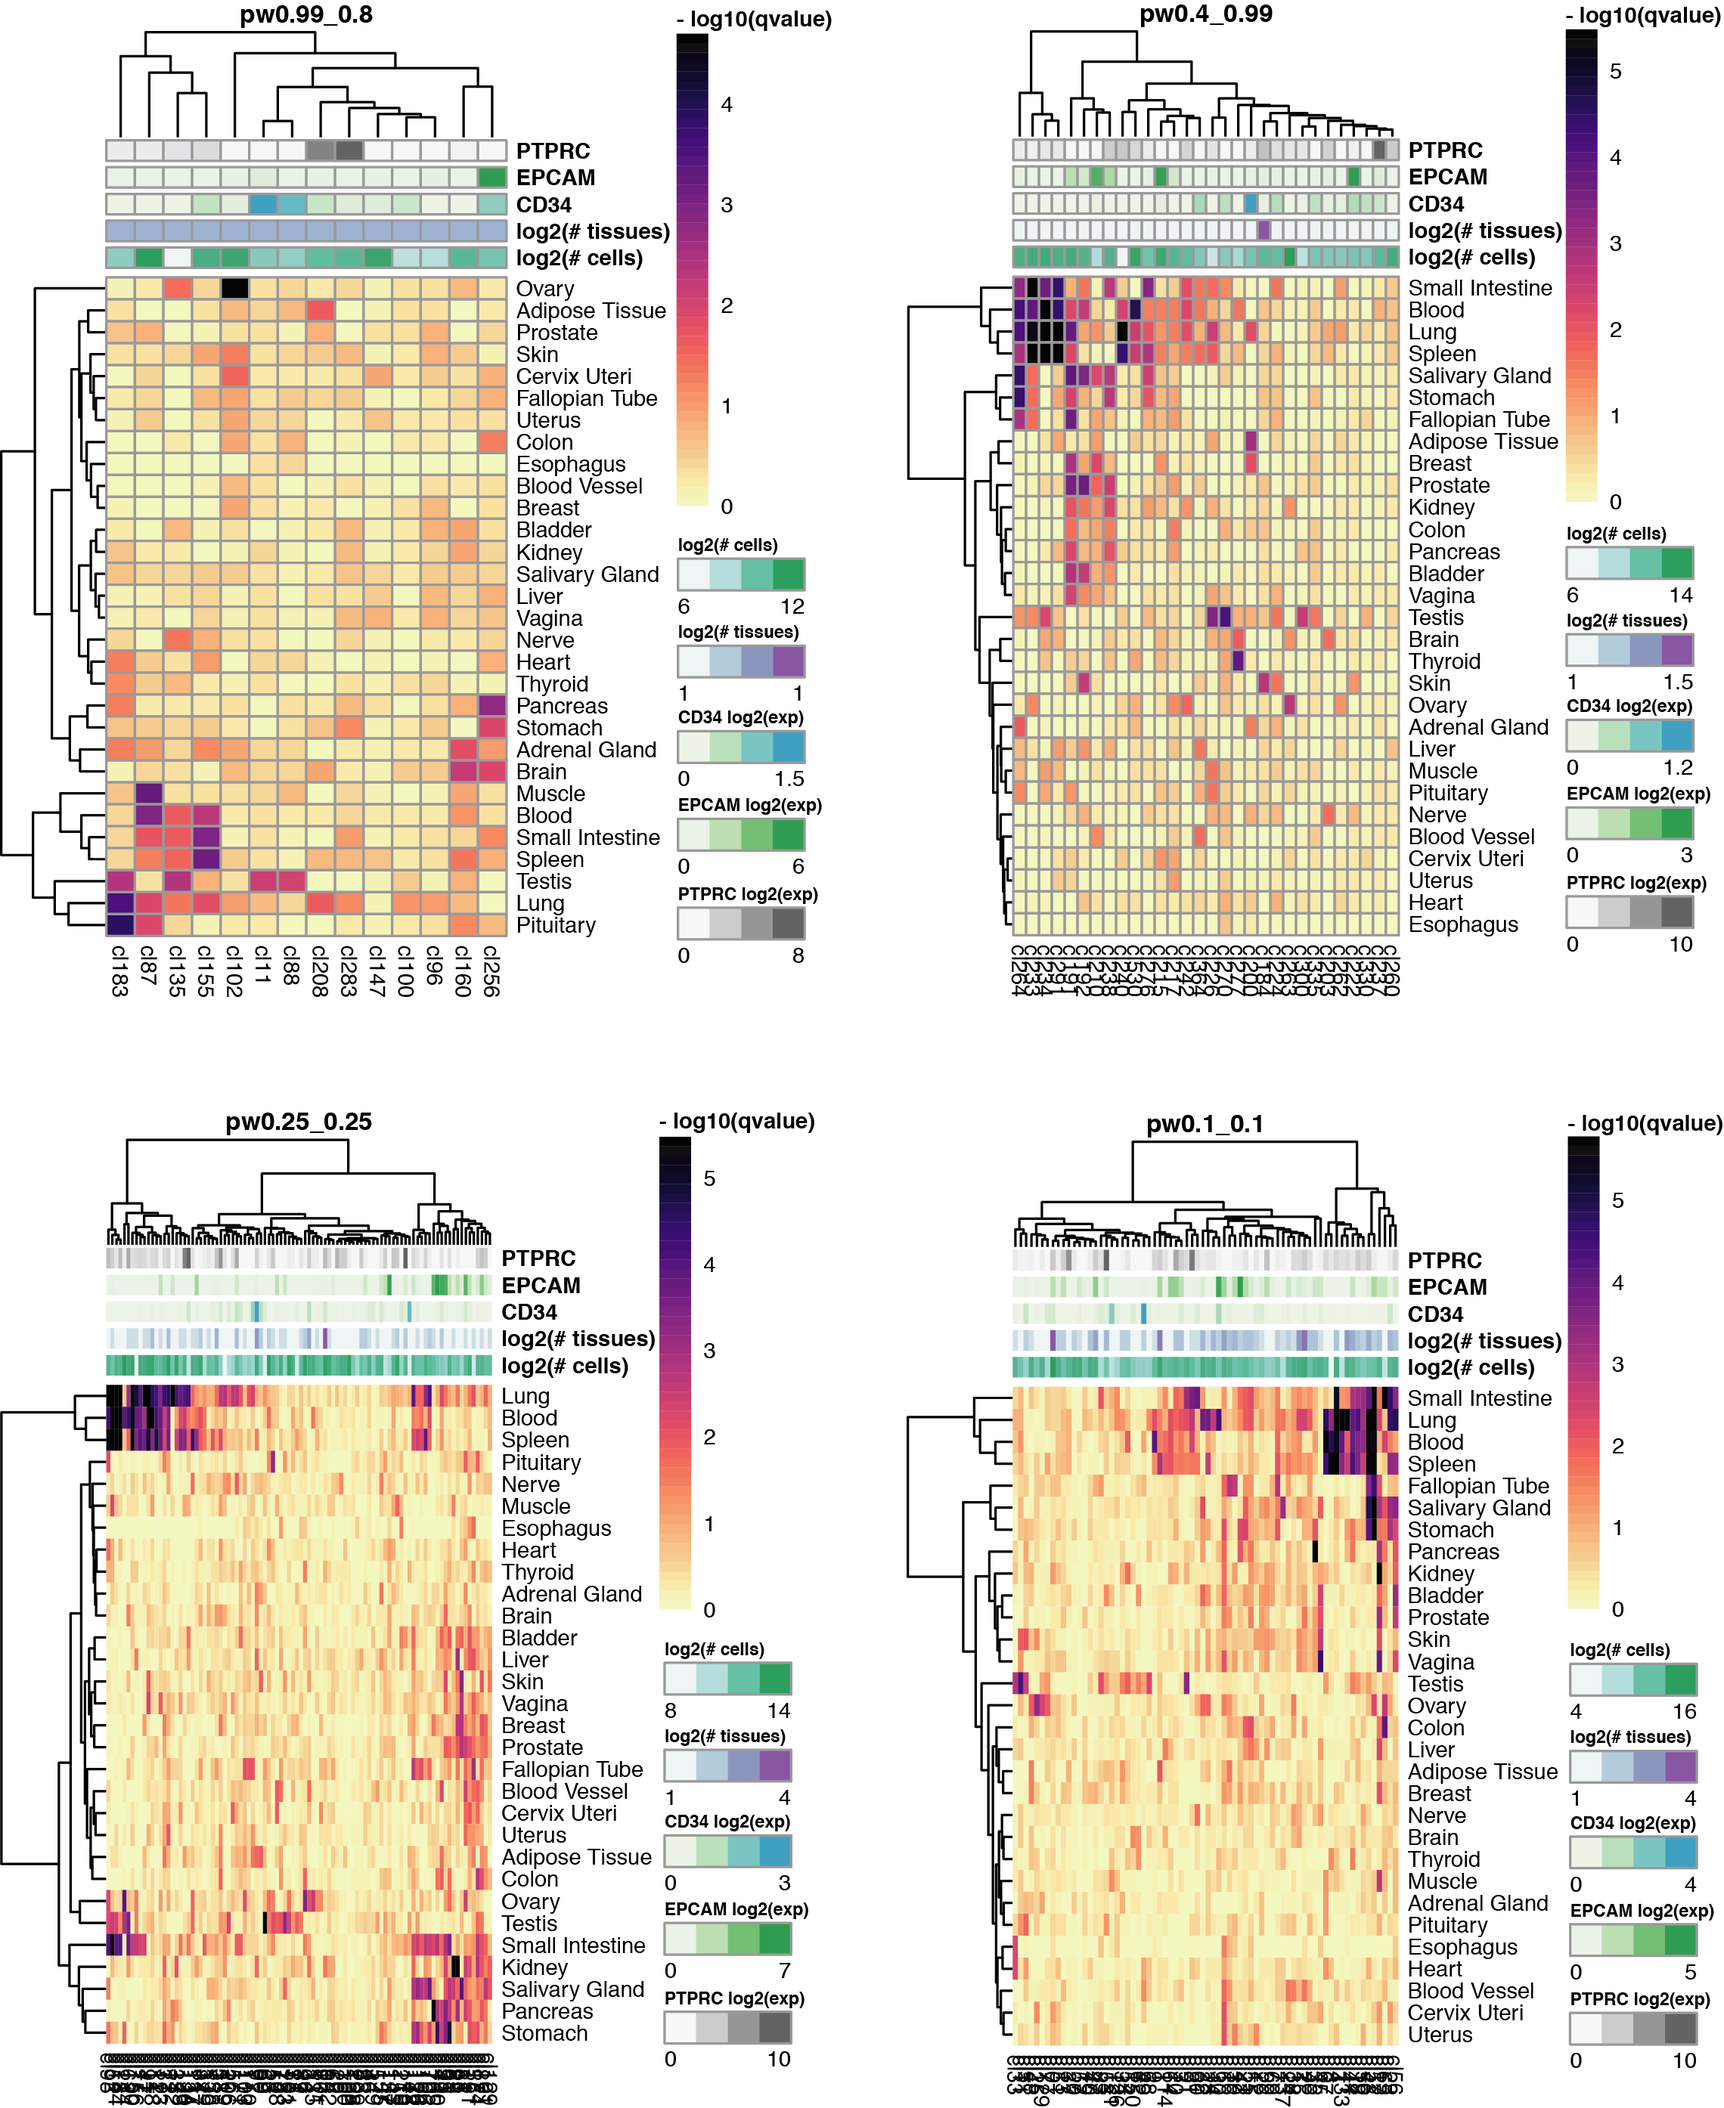
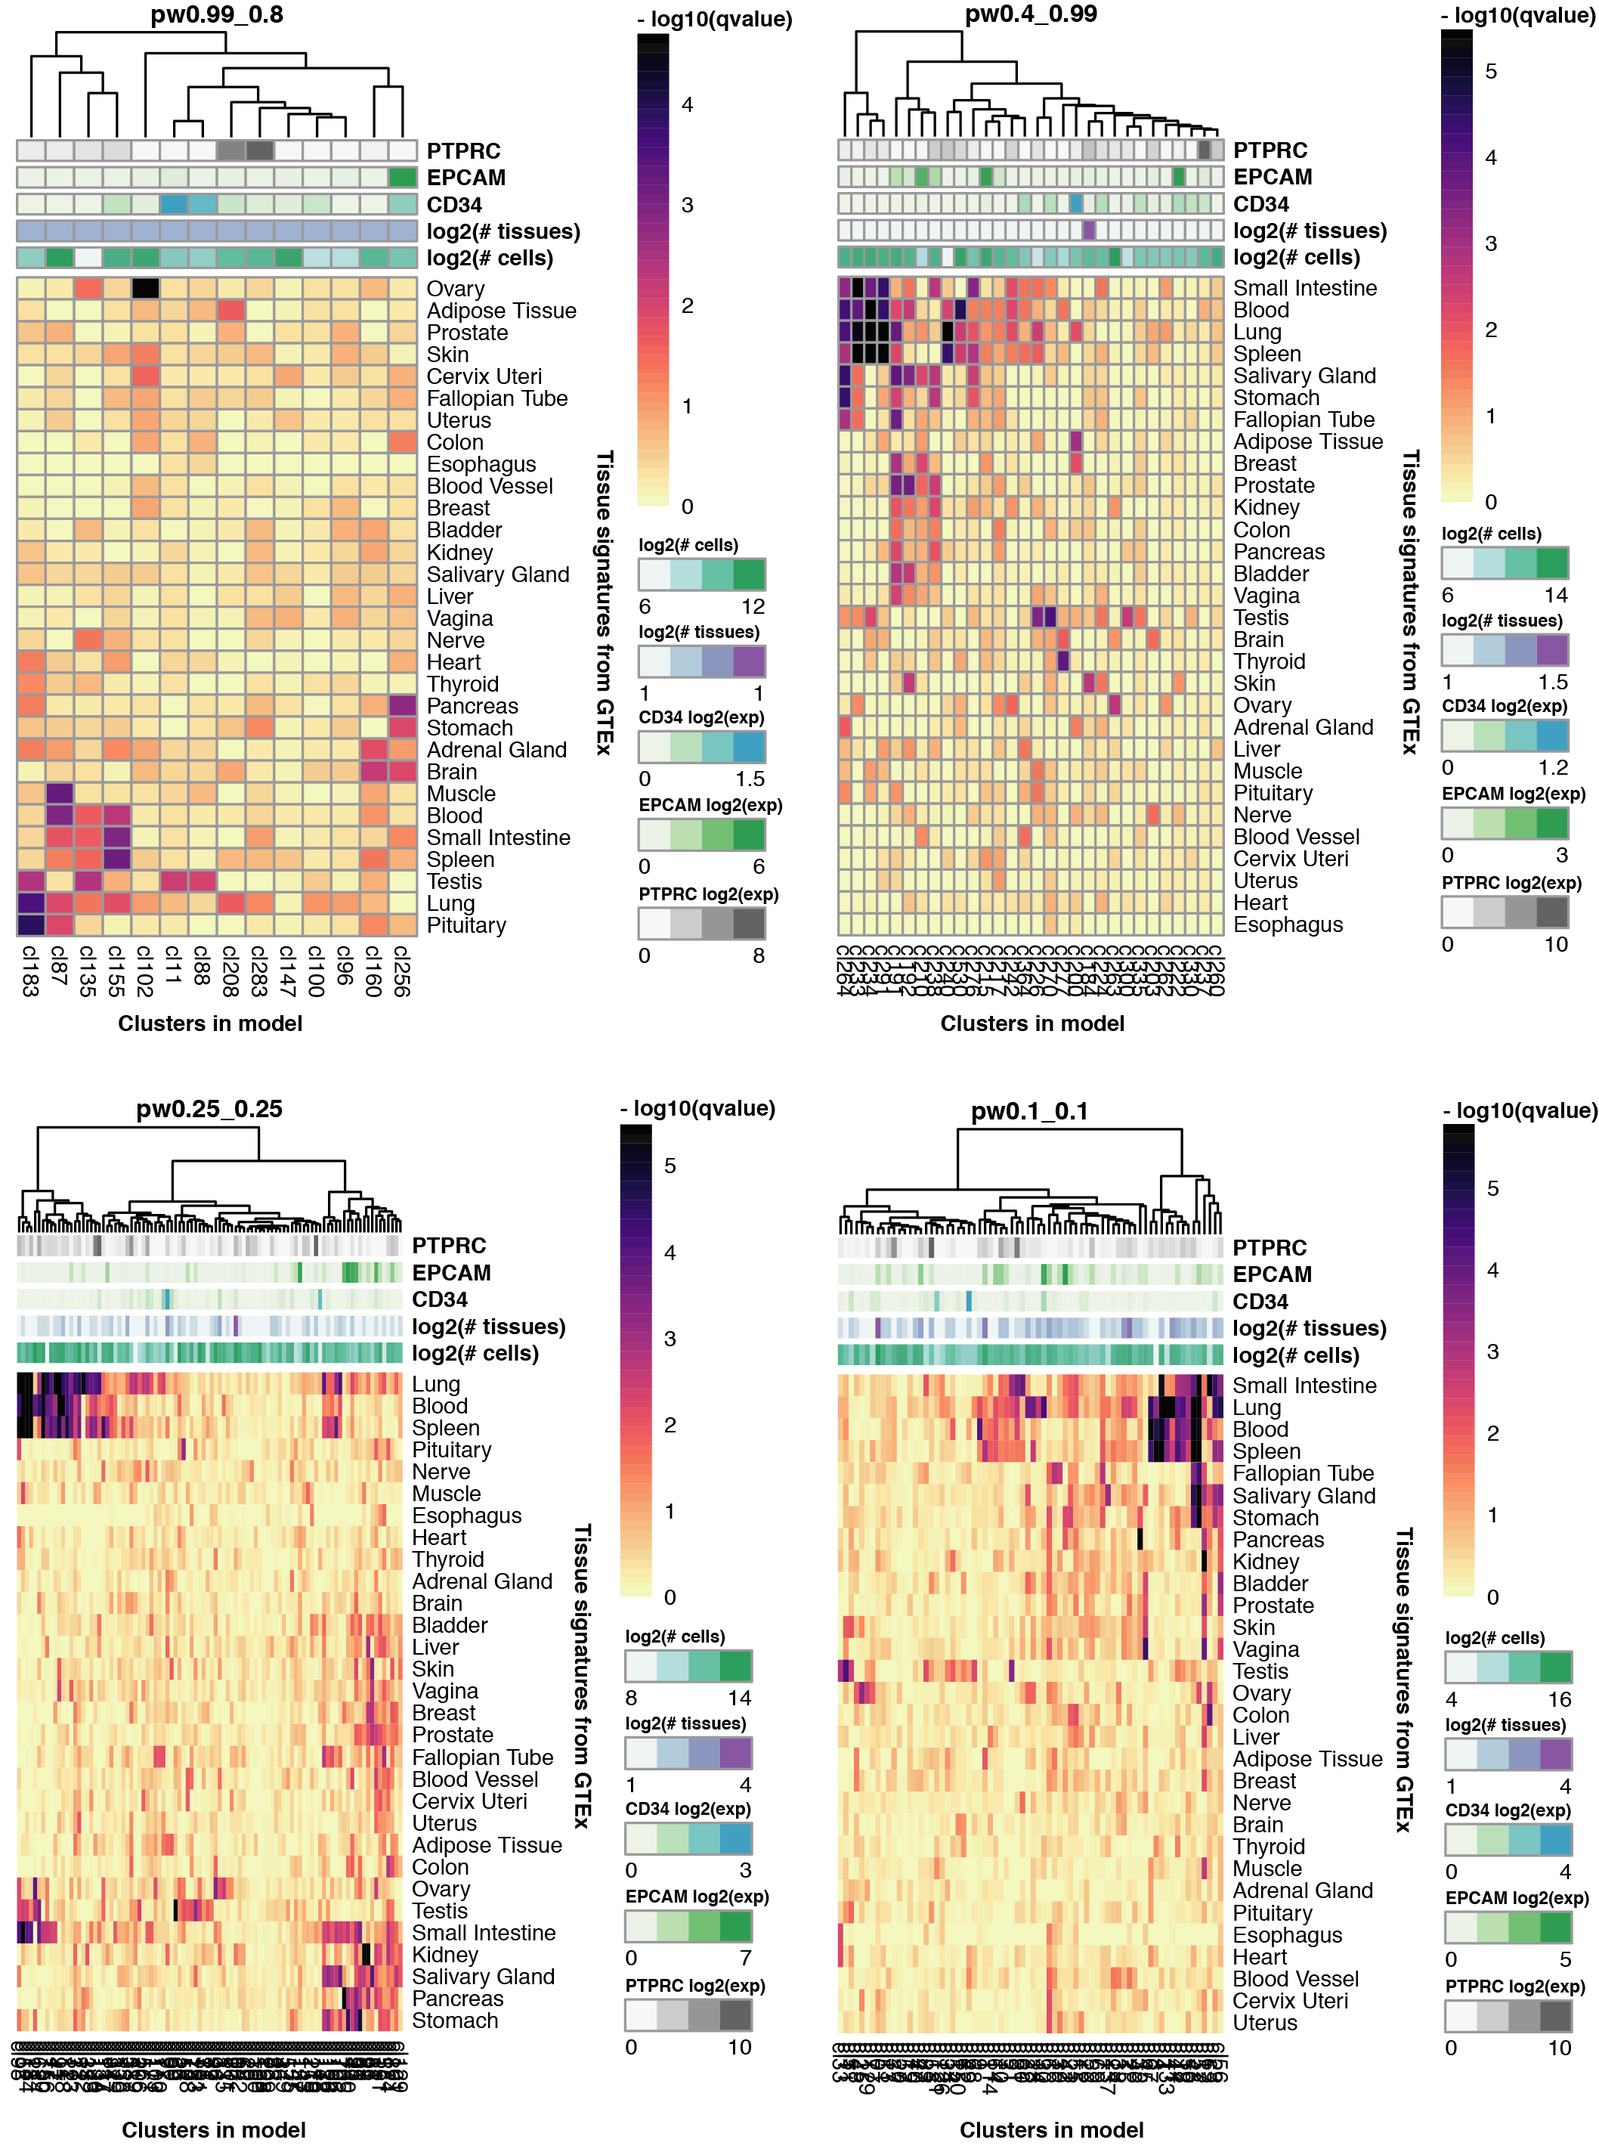
Submitted version (few more corrections to heatmaps)

diff --git a/Appendix2/appendix2.tex b/Appendix2/appendix2.tex
@@ -50,7 +50,7 @@ This Appendix contains supplementary figures for Chapter~\ref{chap:CT_bio}.
 
 \begin{figure}[ht!] 
 \centering
-\includegraphics[width=1.0\textwidth]{Appendix2/Figs/appB_tissueGSEA.png} % change word in curlies to change figure
+\includegraphics[scale=0.77]{Appendix2/Figs/appB_tissueGSEA.png} % change word in curlies to change figure
 \caption[Enrichment of tissue gene modules in other \textit{CellTypist} models]{\textbf{Enrichment of tissue gene modules in other \textit{CellTypist} models (Related to Figure~\ref{fig:chap4_tiss})}\newline Heatmaps showing the fraction of clusters in each tissue (x-axis) with an enrichment for tissue-specific gene programmes (y-axis) determined from GTEx data. Each heatmap represents a different set of clusters per tissue, resulting from using different parameters in the \textit{CellTypist} pipeline. Plot for thr1 = 0.99, thr2 = 0.8 is identical to Figure~\ref{fig:chap4_tiss}B.}
 \label{fig:appB_tissGSEA}
 \end{figure}
@@ -66,7 +66,7 @@ This Appendix contains supplementary figures for Chapter~\ref{chap:CT_bio}.
 
 \begin{figure}[ht!] 
 \centering
-\includegraphics[scale=0.79]{Appendix2/Figs/appB_clmGSEA.png} % change word in curlies to change figure
+\includegraphics[scale=0.78]{Appendix2/Figs/appB_clmGSEA.png} % change word in curlies to change figure
 \caption[Enrichment of tissue gene modules in merged clusters of different \textit{CellTypist} models]{\textbf{Enrichment of tissue gene modules in merged clusters of different \textit{CellTypist} models (Related to Figure~\ref{fig:chap4_tiss})}\newline Heatmaps showing the -log10(q-value) of each merged cluster (x-axis) for the enrichment of tissue-specific gene programmes (y-axis) in their top 500 genes output by the model. Each heatmap represents a different set of merged clusters, resulting from using different parameters in the \textit{CellTypist} pipeline.}
 \label{fig:appB_clmGSEA}
 \end{figure}
@@ -82,7 +82,7 @@ This Appendix contains supplementary figures for Chapter~\ref{chap:CT_bio}.
 
 \begin{figure}[pht!] 
 \centering
-\includegraphics[scale=0.81]{Appendix2/Figs/appB_oes.png} % change word in curlies to change figure
+\includegraphics[scale=0.8]{Appendix2/Figs/appB_oes.png} % change word in curlies to change figure
 \caption[\textit{CellTypist} predictions for oesophagus data from~\citep{madissoon_lung_2019}]{\textbf{\textit{CellTypist} predictions for oesophagus data from~\citep{madissoon_lung_2019} (Related to Figure~\ref{fig:chap4_preds})}\newline\textbf{(A)} UMAP projections coloured by the original cell type annotations (left) and those predicted by \textit{CellTypist} (right) using thr1 = 0.99 and thr2 = 0.8. \textbf{(B)} Proportion of clusters (rows) matching each annotated cell type (columns). \textbf{(C)} Proportion of annotated cell types (rows) included in each cluster (columns). Only clusters including at least 10\% of a given cell type were included.}
 \label{fig:appB_oes}
 \end{figure}
@@ -90,7 +90,7 @@ This Appendix contains supplementary figures for Chapter~\ref{chap:CT_bio}.
 
 \begin{figure}[pht!] 
 \centering
-\includegraphics[scale=0.83]{Appendix2/Figs/appB_spleen.png} % change word in curlies to change figure
+\includegraphics[scale=0.81]{Appendix2/Figs/appB_spleen.png} % change word in curlies to change figure
 \caption[\textit{CellTypist} predictions for spleen data from~\citep{madissoon_lung_2019}]{\textbf{\textit{CellTypist} predictions for spleen data from~\citep{madissoon_lung_2019} (Related to Figure~\ref{fig:chap4_preds})}\newline\textbf{(A)} UMAP projections coloured by the original cell type annotations (left) and those predicted by \textit{CellTypist} (right) using thr1 = 0.99 and thr2 = 0.8. \textbf{(B)} Proportion of clusters (rows) matching each annotated cell type (columns). \textbf{(C)} Proportion of annotated cell types (rows) included in each cluster (columns). Only clusters including at least 10\% of a given cell type were included.}
 \label{fig:appB_spleen}
 \end{figure}
@@ -114,7 +114,7 @@ This Appendix contains supplementary figures for Chapter~\ref{chap:CT_bio}.
 
 \begin{figure}[ht!] 
 \centering
-\includegraphics[scale=0.84]{Appendix2/Figs/appB_otherCtFrac_lung.png} % change word in curlies to change figure
+\includegraphics[scale=0.83]{Appendix2/Figs/appB_otherCtFrac_lung.png} % change word in curlies to change figure
 \caption[Lung annotated cell types matching clusters in other \textit{CellTypist} models]{\textbf{Lung annotated cell types matching clusters in other \textit{CellTypist} models (Related to Figure~\ref{fig:chap4_preds}C)}\newline Proportion of annotated cell types (rows) included in each cluster (columns) in the models thr1 = 0.4, thr2 = 0.99 \textbf{(A)}, thr1 = 0.25, thr2 = 0.25 \textbf{(A)}, and thr1 = 0.1, thr2 = 0.1 \textbf{(C)}. Only clusters including at least 10\% of a given cell type were included.}
 \label{fig:appB_otherct}
 \end{figure}
